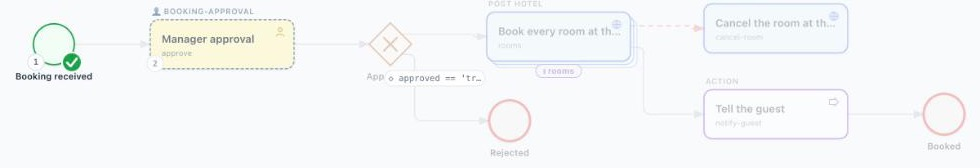
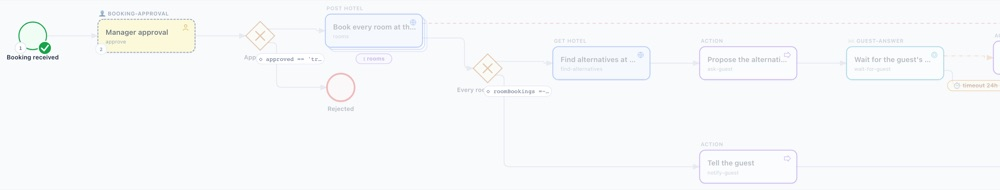
docs(workshop): retake the screenshots for the guest-decides story
03-compensated-lanes (BOOKING-3 waiting for the guest, rooms 2/3, nothing
undone), 03-compensated-graph (the guest cancelled: Cancelled by the guest,
Cancel the room 2/2, Compensated), 04-http-iterations (BOOKING-5 over HTTP,
alternative accepted, Booked with alternatives), 06-waiting-for-approval and
06-booked (module 6's new graph), 08-parent-errors (the Errors tab as it is
now: by lane, with the child's SOLD_OUT). Taken from the running workshop
app; module 3 shows its two images again, module 4's moves after the
accept, captions and the module 8 paragraph follow.

diff --git a/doc/src/content/docs/workshop/03-when-things-fail.md b/doc/src/content/docs/workshop/03-when-things-fail.md
@@ -158,6 +158,8 @@ scripts/start.sh rooms-booking-safe BOOKING-3 '{"guest": "Bob", "rooms": [
 
 The process does not fail and does not undo anything. `rooms` shows **2/3** — open it (double-click) to see Room 900 failed with `SOLD_OUT` and 101 and 102 completed — *Ask the guest* has run, and the process waits at *Wait for the guest's answer*. The step's log says how the rooms went: *forEach on step rooms completed: 2 of 3 iterations completed, 1 failed (onIterationFailure continue).*
 
+![Waiting for the guest: rooms 2/3 — Room 101 and 102 booked, Room 900 failed — nothing cancelled, the guest asked](/workshop/03-compensated-lanes.jpg)
+
 Now answer as the guest. The hotel's website would send this message when the guest clicks a link in the email; `scripts/answer.sh` sends it to the engine's message API:
 
 ```bash
@@ -165,6 +167,8 @@ scripts/answer.sh BOOKING-3 cancel
 ```
 
 The process takes *Cancelled by the guest*. Its log says *Rolling the process back on purpose: the flow reached END 'cancelled-by-guest', which compensates what the process did.* — and *Cancel the room*, drawn amber because it is a compensation, runs **2/2**: one cancellation per room that had been booked; the penthouse, never booked, is not cancelled. The process ends **Compensated**.
+
+![The guest cancelled: the flow went through What did the guest decide? to Cancelled by the guest, and Cancel the room ran 2/2](/workshop/03-compensated-graph.jpg)
 
 Start another one (BOOKING-3B) and answer `keep` instead: *What did the guest decide?* takes its default branch straight to *Done*, and the process ends *Completed* with the two rooms booked and nothing undone. Leave a third one unanswered and nothing happens to it for two days; then the front desk is told — in a test, those two days pass in milliseconds ([Part 9 · Time](/workshop/testing/time/)).
 

diff --git a/doc/src/content/docs/workshop/04-calling-the-hotel.md b/doc/src/content/docs/workshop/04-calling-the-hotel.md
@@ -187,8 +187,6 @@ scripts/start.sh rooms-booking-http BOOKING-5 '{"guest": "Dan", "rooms": [
 curl -s 'http://localhost:8095/fake/hotel/alternatives?booking=BOOKING-5'
 ```
 
-![Over HTTP: Room 900 answered 409, the two others were booked](/workshop/04-http-iterations.jpg)
-
 The hotel answered `409` for the penthouse — a 4xx is not retried, a 409 will not fix itself — so that room is set aside; the other two stay booked. The hotel offers `[{"number":"901","instead":"900","type":"suite"}]`, and the process waits for the guest. Accept it:
 
 ```bash
@@ -196,7 +194,11 @@ scripts/answer.sh BOOKING-5 accept
 curl -s http://localhost:8095/fake/hotel/bookings
 ```
 
-The suite is booked (`BOOKING-5-901`) and the process ends *Booked with alternatives*. Start BOOKING-6 the same way and answer `cancel`: the two rooms it had booked are cancelled with `DELETE` calls — `curl /fake/hotel/bookings` holds nothing of BOOKING-6 — and the process ends **Compensated**.
+The suite is booked (`BOOKING-5-901`) and the process ends *Booked with alternatives*:
+
+![Over HTTP: Room 900 answered 409 and Room 101 and 102 stayed booked; the hotel's alternative was proposed, the guest accepted, the suite was booked (1/1) and the process ended Booked with alternatives — nothing cancelled](/workshop/04-http-iterations.jpg)
+
+Start BOOKING-6 the same way and answer `cancel`: the two rooms it had booked are cancelled with `DELETE` calls — `curl /fake/hotel/bookings` holds nothing of BOOKING-6 — and the process ends **Compensated**.
 
 ## Check
 

diff --git a/doc/src/content/docs/workshop/08-debugging.md b/doc/src/content/docs/workshop/08-debugging.md
@@ -17,9 +17,9 @@ So: one room failed, the policy kept the other two, and the flow went on to ask 
 
 ## 2. The Errors tab says what — up to a boundary
 
-![The parent's Errors tab: a child process ended ERROR](/workshop/08-parent-errors.jpg)
+![The parent's Errors tab: Room 900's child process ended ERROR, and why — SOLD_OUT](/workshop/08-parent-errors.jpg)
 
-The parent knows that a **child** failed — each room ran as a child process of its own — but not the child's own reason. Follow it: double-click the failed lane's header (*Room 900*) to open that child run, or find it in the process list.
+The parent lists what failed under it, by lane: each room ran as a **child** process of its own, and *rooms · Room 900* ended `ERROR` because its `create-room-booking` step failed. The child's own run has the whole story. Follow it: double-click the failed lane's header (*Room 900*) to open that child run, or find it in the process list.
 
 ![The child's Errors tab: SOLD_OUT](/workshop/08-child-errors.jpg)
 

diff --git a/doc/src/content/docs/workshop/06-a-person-in-the-loop.md b/doc/src/content/docs/workshop/06-a-person-in-the-loop.md
@@ -256,9 +256,9 @@ An operator can also decide it from the console, without the form: **Complete st
 
 ![Completing the approval from the console](/workshop/06-approve-from-console.gif)
 
-The CHOICE takes the approved branch, the rooms are booked at the hotel, the guest is told:
+The CHOICE takes the approved branch, the rooms are booked at the hotel, every room was booked so the guest is told, and the process ends *Booked*:
 
-![Booked: approval, choice, rooms 3/3, guest told](/workshop/06-booked.jpg)
+![Booked: approval, choice, rooms 3/3, every room booked, guest told](/workshop/06-booked.jpg)
 
 Start another one (BOOKING-8) and reject it — leave *Approve this booking* unticked in the form, or `scripts/approve.sh BOOKING-8 false`: the CHOICE takes the default branch, and the run finishes through the *Rejected* end (status *Completed* — rejecting is a normal outcome, not a failure) without touching the hotel.
 
